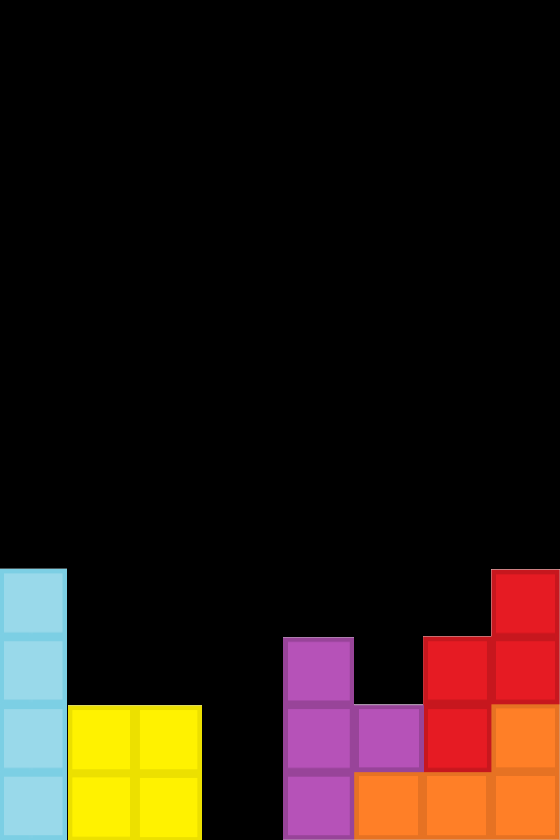
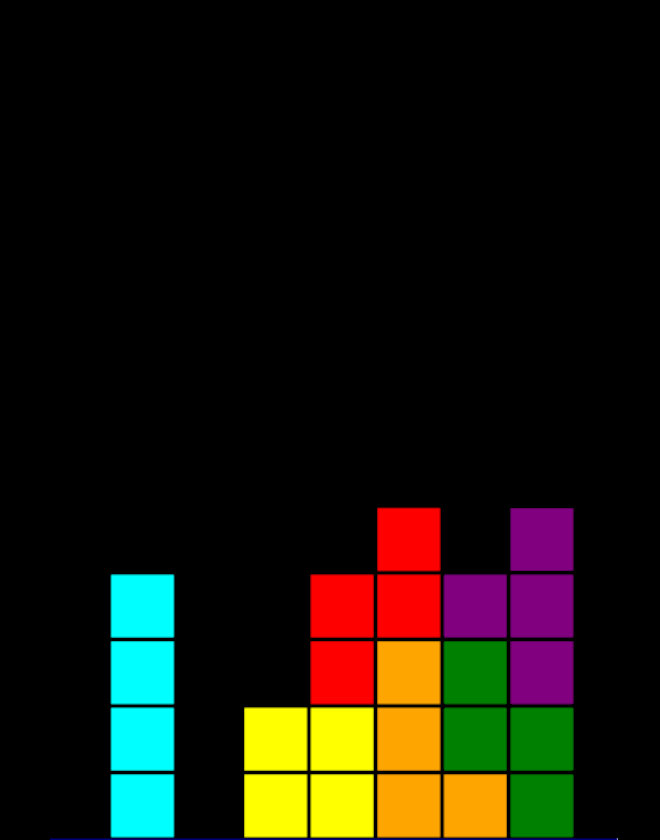
Added controls help, changed background picture and added slide piece mechanic

Changed region(s): [[0.0, 0.5881, 1.0, 1.0]]

diff --git a/Core/GameScene.cs b/Core/GameScene.cs
@@ -42,6 +42,8 @@ public class GameScene
     double tickspeed = Config.tickSpeed;
     public int level = 1;
     public int score = 0;
+    double isHeldFor = 0;
+    double lastSlideTick = 0;
     public GameScene()
     {
         squares = new List<Square>();
@@ -101,8 +103,7 @@ public class GameScene
         var row = from square in squares
                   where square.gridPosition.Y == n
                   select square;
-        if (row.Count() == Config.cellsX) return true;
-        return false;
+        return row.Count() == Config.cellsX;
     }
     void ClearRow(int n)
     {
@@ -130,9 +131,11 @@ public class GameScene
         }
         changedPiece = true;
     }
+
     public void HandleInput(Keys button)
     {
-        if (Game1.gameState.state != StateMachine.GameState.running && Game1.gameState.state != StateMachine.GameState.waiting && button != Keys.Escape && button != Keys.F1) return;
+        isHeldFor = 0;
+        if (Game1.gameState.state != GameState.running && Game1.gameState.state != GameState.waiting && button != Keys.Escape && button != Keys.F1) return;
         switch (button)
         {
             case Keys.Left or Keys.NumPad4:
@@ -164,17 +167,30 @@ public class GameScene
                 score += lines;
                 break;
             case Keys.Escape or Keys.F1:
-                if (Game1.gameState.state == StateMachine.GameState.paused) Game1.gameState.UnPause();
-                else if (Game1.gameState.state == StateMachine.GameState.running) Game1.gameState.Pause();
-                else if (Game1.gameState.state == StateMachine.GameState.waiting) Game1.gameState.NewGame();
-                break;
-            case Keys.D:
-                level++;
+                if (Game1.gameState.state == GameState.paused) Game1.gameState.UnPause();
+                else if (Game1.gameState.state == GameState.running) Game1.gameState.Pause();
+                else if (Game1.gameState.state == GameState.waiting) Game1.gameState.NewGame();
                 break;
         }
     }
     public bool Update(GameTime updateTime)
     {
+        if (Globals.keyboard.AnyKeyPressed) isHeldFor += updateTime.ElapsedGameTime.TotalMilliseconds;
+        if (isHeldFor > 250 && updateTime.TotalGameTime.TotalMilliseconds - lastSlideTick > 100)
+        {
+            if (Globals.keyboard.IsPressed(Keys.Left))
+            {
+                falling.Step(Direction.Left);
+                UpdateShade(Direction.Left);
+                lastSlideTick = updateTime.TotalGameTime.TotalMilliseconds;
+            }
+            if (Globals.keyboard.IsPressed(Keys.Right))
+            {
+                falling.Step(Direction.Right);
+                UpdateShade(Direction.Right);
+                lastSlideTick = updateTime.TotalGameTime.TotalMilliseconds;
+            }
+        }
         if (updateTime.TotalGameTime.TotalMilliseconds - lastTick > tickspeed)
         {
             lastTick = updateTime.TotalGameTime.TotalMilliseconds;
@@ -198,7 +214,7 @@ public class GameScene
                 cleared++;
             }
         }
-        if (cleared > 0) Globals.clear.Play(0.5f, 0.1f, 0.5f);
+        if (cleared > 0) Globals.clear.Play(0.3f, 0.1f, 0.5f);
         exp += cleared switch
         {
             1 => 1,
@@ -238,10 +254,11 @@ public class GameScene
     {
         shade.squares.ForEach(delegate (Square square) { square.Draw(spriteBatch, true); });
 
-        spriteBatch.DrawRectangle(new RectangleF(Config.margin.X, Config.margin.Y, Config.cellSize * Config.cellsX, Config.cellSize * Config.cellsY), Color.DarkBlue, 5);
+        var thicc = 5;
+        spriteBatch.DrawRectangle(new RectangleF(Config.margin.X - thicc, Config.margin.Y - thicc, Config.cellSize * Config.cellsX + 2 * thicc, Config.cellSize * Config.cellsY + 2 * thicc), Color.DarkBlue, thicc);
         spriteBatch.DrawString(Globals.font, $"LVL: {level} SCORE: {score} HI-SCORE: {Game1.gameState.max_score}", new(20, 10), Color.White);
-        spriteBatch.Draw(Game1.textures["hold"], new Vector2(10, 60), Color.White);
-        spriteBatch.Draw(Game1.textures["next"], new Vector2(430, 85), Color.White);
+        spriteBatch.Draw(Game1.textures["hold"], new Vector2(-3, 60), Color.White);
+        spriteBatch.Draw(Game1.textures["next"], new Vector2(480, 85), Color.White);
 
         squares.ForEach(delegate (Square item) { item.Draw(spriteBatch); });
 

diff --git a/Game1.cs b/Game1.cs
@@ -3,10 +3,7 @@ using Microsoft.Xna.Framework.Audio;
 using Microsoft.Xna.Framework.Graphics;
 using Microsoft.Xna.Framework.Media;
 using MonoGame.EasyInput;
-using MonoGame.Extended;
-using MonoGame.Extended.BitmapFonts;
 using System.Collections.Generic;
-using System.Diagnostics;
 using Tetris.Core;
 using Tetris.Menus;
 
@@ -37,9 +34,8 @@ public class Game1 : Game
     SpriteBatch spriteBatch;
     public static GameScene scene;
     public static StateMachine gameState;
-    public StartMenu start;
-    public InGameMenu menu;
-    public PauseMenu pause;
+
+    public static Dictionary<string, Menu> menus;
 
     public Game1()
     {
@@ -51,10 +47,15 @@ public class Game1 : Game
 
         gameState = new();
 
-        start = new();
-        start.Enable();
-        menu = new();
-        pause = new();
+        menus = new()
+        {
+            ["start"] = new StartMenu(),
+            ["ingame"] = new InGameMenu(),
+            ["pause"] = new PauseMenu(),
+            ["controls"] = new ControlsMenu(),
+        };
+
+        menus["start"].Enable();
 
         self = this;
     }
@@ -88,15 +89,17 @@ public class Game1 : Game
             ["musicbutton1"] = Content.Load<Texture2D>("musicoff"),
             ["hold"] = Content.Load<Texture2D>("hold"),
             ["next"] = Content.Load<Texture2D>("next"),
+            ["controls"] = Content.Load<Texture2D>("controls"),
         };
 
-        start.Initialize();
-        menu.Initialize();
-        pause.Initialize();
+        menus["start"].Initialize();
+        menus["ingame"].Initialize();
+        menus["pause"].Initialize();
+        menus["controls"].Initialize();
 
         MediaPlayer.Play(Globals.song);
         MediaPlayer.IsRepeating = true;
-        MediaPlayer.Volume = 0.5f;
+        MediaPlayer.Volume = 0.2f;
     }
     protected override void Update(GameTime gameTime)
     {
@@ -107,13 +110,16 @@ public class Game1 : Game
         {
             case StateMachine.GameState.running:
                 scene.Update(gameTime);
-                menu.Update();
+                menus["ingame"].Update();
                 break;
             case StateMachine.GameState.startMenu:
-                start.Update();
+                menus["start"].Update();
                 break;
             case StateMachine.GameState.pauseMenu:
-                pause.Update();
+                menus["pause"].Update();
+                break;
+            case StateMachine.GameState.controls:
+                menus["controls"].Update();
                 break;
         }
         base.Update(gameTime);
@@ -129,18 +135,21 @@ public class Game1 : Game
         {
             case StateMachine.GameState.running or StateMachine.GameState.paused or StateMachine.GameState.waiting:
                 scene.Draw(spriteBatch);
-                
-                menu.Draw(spriteBatch);
+                menus["ingame"].Draw(spriteBatch);
                 break;
             case StateMachine.GameState.startMenu:
                 spriteBatch.Draw(textures["menubackground"], new Rectangle(0, 0, graphics.PreferredBackBufferWidth, graphics.PreferredBackBufferHeight), Color.White);
-                spriteBatch.DrawString(Globals.fonttitle, "TETRIS", new Vector2(130, 20), Color.White);
-                start.Draw(spriteBatch);
+                spriteBatch.DrawString(Globals.fonttitle, "TETRIS", new Vector2(160, 20), Color.White);
+                menus["start"].Draw(spriteBatch);
                 break;
             case StateMachine.GameState.pauseMenu:
                 spriteBatch.Draw(textures["menubackground"], new Rectangle(0, 0, graphics.PreferredBackBufferWidth, graphics.PreferredBackBufferHeight), Color.White);
-                spriteBatch.DrawString(Globals.fonttitle, "TETRIS", new Vector2(130, 20), Color.White);
-                pause.Draw(spriteBatch);
+                spriteBatch.DrawString(Globals.fonttitle, "TETRIS", new Vector2(160, 20), Color.White);
+                menus["pause"].Draw(spriteBatch);
+                break;
+            case StateMachine.GameState.controls:
+                spriteBatch.Draw(textures["controls"], new Rectangle(0, 0, graphics.PreferredBackBufferWidth, graphics.PreferredBackBufferHeight), Color.White);
+                menus["controls"].Draw(spriteBatch);
                 break;
         }
 

diff --git a/Core/StateMachine.cs b/Core/StateMachine.cs
@@ -5,7 +5,7 @@ namespace Tetris.Core;
 
 public class StateMachine
 {
-    public enum GameState { startMenu, pauseMenu, running, paused, waiting }
+    public enum GameState { startMenu, pauseMenu, running, controls, paused, waiting }
     public GameState state = GameState.startMenu;
     public int max_score = 0;
 
@@ -18,14 +18,14 @@ public class StateMachine
         Game1.scene = new();
         Game1.scene.Initialize();
         state = GameState.running;
-        Game1.self.start.Disable();
-        Game1.self.menu.Enable();
+        Game1.menus["start"].Disable();
+        Game1.menus["ingame"].Enable();
     }
     public void Resume()
     {
         state = GameState.running;
-        Game1.self.pause.Disable();
-        Game1.self.menu.Enable();
+        Game1.menus["pause"].Disable();
+        Game1.menus["ingame"].Enable();
     }
     public void UnPause()
     {
@@ -39,15 +39,22 @@ public class StateMachine
 
     public void ToStartMenu()
     {
-        Game1.self.start.Enable();
-        Game1.self.menu.Disable();
+        Game1.menus["start"].Enable();
+        Game1.menus["ingame"].Disable();
         state = GameState.startMenu;
     }
     public void ToPauseMenu()
     {
         if (state == GameState.waiting) { ToStartMenu(); return; }
-        Game1.self.pause.Enable();
-        Game1.self.menu.Disable();
+        Game1.menus["pause"].Enable();
+        Game1.menus["ingame"].Disable();
         state = GameState.pauseMenu;
+    }
+
+    public void ToControlsScreen()
+    {
+        state = GameState.controls;
+        Game1.menus["pause"].Disable();
+        Game1.menus["controls"].Enable();
     }
 }

diff --git a/Buttons/ControlsButton.cs b/Buttons/ControlsButton.cs
@@ -3,19 +3,19 @@ using Tetris.Core;
 
 namespace Tetris.Buttons;
 
-class PlayButton : Button
+class ControlsButton : Button
 {
-    public PlayButton(Vector2 arg) : base(arg)
+    public ControlsButton(Vector2 arg) : base(arg)
     {
     }
     public override void Initialize()
     {
-        text = "NEW GAME";
+        text = "CONTROLS";
         bounds.Size = new(190, 65);
     }
     protected override void Action()
     {
-        Game1.gameState.NewGame();
+        Game1.gameState.ToControlsScreen();
     }
 
 }

diff --git a/Menus/PauseMenu.cs b/Menus/PauseMenu.cs
@@ -1,14 +1,14 @@
 using Tetris.Buttons;
 using Tetris.Core;
 
-namespace Tetris.Menus
+namespace Tetris.Menus;
+
+public class PauseMenu : Menu
 {
-    public class PauseMenu : Menu
+    public PauseMenu()
     {
-        public PauseMenu()
-        {
-            Add(new ResumeButton(new(160, 180)));
-            Add(new PlayButton(new(160, 280)));
-        }
+        Add(new ResumeButton(new(200, 180)));
+        Add(new PlayButton(new(200, 280)));
+        Add(new ControlsButton(new(200, 380)));
     }
 }

diff --git a/Core/Config.cs b/Core/Config.cs
@@ -8,9 +8,9 @@ public static class Settings
 }
 public static class Config
 {
-    public static Vector2 margin = new(130, 50);
-    public static Vector2 queuePosition = new(11, 4);
-    public static Vector2 heldPosition = new(-3, 3);
+    public static Vector2 margin = new(150, 50);
+    public static Vector2 queuePosition = new(12, 4);
+    public static Vector2 heldPosition = new(-4, 3);
     public static int tickSpeed = 300;
     public static int cellsX = 10;
     public static int cellsY = 20;

diff --git a/Menus/InGameMenu.cs b/Menus/InGameMenu.cs
@@ -8,7 +8,7 @@ public class InGameMenu : Menu
 {
     public InGameMenu()
     {
-        Add(new PauseButton(new(450, 10)));
-        Add(new EnableMusicButton(new(500, 10)));
+        Add(new PauseButton(new(500, 10)));
+        Add(new EnableMusicButton(new(550, 10)));
     }
 }

diff --git a/Menus/ControlsMenu.cs b/Menus/ControlsMenu.cs
@@ -1,0 +1,12 @@
+using Tetris.Buttons;
+using Tetris.Core;
+
+namespace Tetris.Menus;
+
+public class ControlsMenu : Menu
+{
+    public ControlsMenu()
+    {
+        Add(new ResumeButton(new(200, 580)));
+    }
+}

diff --git a/Menus/StartMenu.cs b/Menus/StartMenu.cs
@@ -7,6 +7,6 @@ public class StartMenu : Menu
 {
     public StartMenu()
     {
-        Add(new PlayButton(new(160, 180)));
+        Add(new PlayButton(new(200, 180)));
     }
 }
